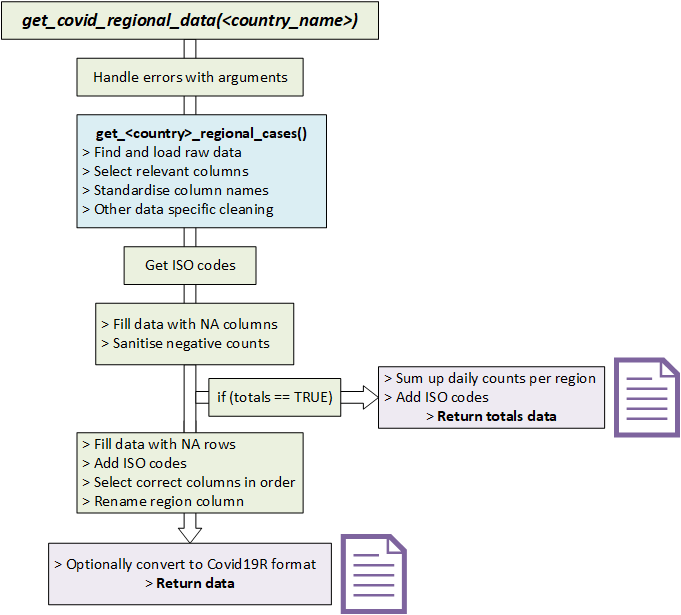
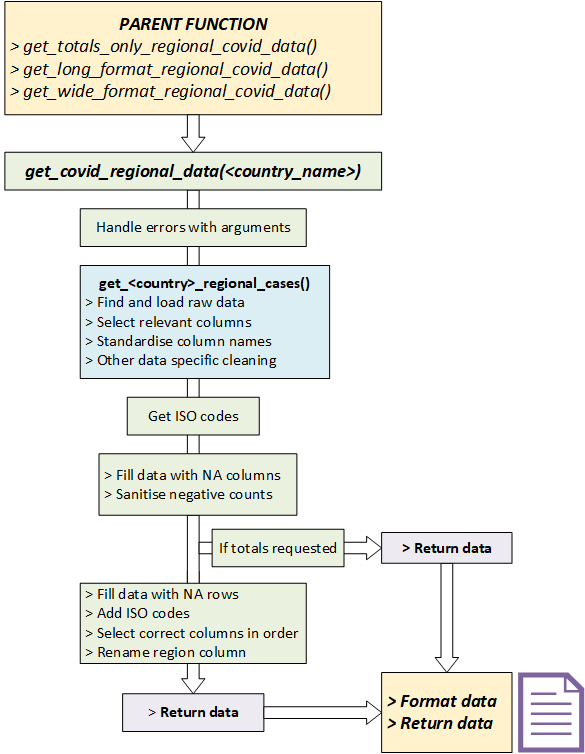
Split functionality into three separate main funcs

diff --git a/README.md b/README.md
@@ -20,14 +20,28 @@ remotes::install_github("epiforecasts/NCoVUtils", dependencies = TRUE)
 
 ## Usage
 
-
 ### Sub-national data
 
-There is one main function to extract sub-national level data by country. These are typically at the admin-1 level, the largest regions available. The data table also includes the ISO-3166-2 code for the region. 
+There are three main functions to extract sub-national level data by country. The underlying data for each function is the same - each function just formats the data differently. The regions used are currently at the admin-1 level, the largest regions available. The data table includes the ISO-3166-2 code for each region. Each function takes the country name (in English) as a string (see list below for available countries). The country string is not case-sensitive.
 
-To access the sub-national data, use
-```NCoVUtils::get_regional_covid_data(<country_name>)```
-where country name is a string with the English name of the country (see list below). This is not case-sensitive.
+The three ways to view the data (and the related functions) are:
+1. Long format - this is the standard used by the Covid19R package. To get data in this format use:
+```r
+NCoVUtils::get_long_format_regional_covid_data("Belgium")
+```
+
+This returns a dataset with the following structure
+
+**date**|**location**|**location\_type**|**location\_code**|**location\_code\_type**|**data\_type**|**value**
+:-----:|:-----:|:-----:|:-----:|:-----:|:-----:|:-----:
+2020-05-24|Wallonia|region|BE-WAL|iso-3166-2|tests\_total|NA
+2020-05-25|Brussels|region|BE-BRU|iso-3166-2|cases\_new|27
+2020-05-25|Brussels|region|BE-BRU|iso-3166-2|cases\_total|5828
+
+2. Wide format (aka time series format). To get data in this format use:
+```r
+NCoVUtils::get_wide_format_regional_covid_data("Belgium")
+```
 
 This returns a dataset with the following structure
 
@@ -37,11 +51,24 @@ This returns a dataset with the following structure
 2020-05-25|Brussels|BE-BRU|27|5828|2|1436|NA|NA|6|2533|NA|NA
 2020-05-25|Flanders|BE-VLG|184|32376|14|4673|NA|NA|29|9428|NA|NA
 
-The columns returned will _always_ be the same for standardisation reasons, though if the corresponding data was missing from the original source then the column will be all NA values. Note that some rows may have NA in `*_new` columns if the data was missing from the source also. 
+3. Totals only (cumulative data) up to the latest date available in the data (usually today's date or yesterday). To get data in this format use:
+```r
+NCoVUtils::get_totals_only_regional_covid_data("Belgium")
+```
 
-Dates will always be in YYYY-MM-DD format; the region is typically at admin-1 level (largest subregions) and the ISO codes are ISO-3166-2 codes. 
+This returns a dataset with the following structure
 
-Columns with `*_new` names are new counts for the day/region in question. Columns with `*_total` names are cumulative counts for that region up to and including the date. 
+**region**|**iso\_code**|**cases\_total**|**deaths\_total**|**recoveries\_total**|**hospitalisations\_total**|**tests\_total**
+:-----:|:-----:|:-----:|:-----:|:-----:|:-----:|:-----:
+Flanders|BE-VLG|32817|4731|0|9550|0
+Wallonia|BE-WAL|18489|3292|0|5187|0
+Brussels|BE-BRU|5914|1463|0|2560|0
+
+The data fields for counts returned will _always_ be the same for standardisation reasons, though if the corresponding data was missing from the original source then that data field will be all NA values (or 0 if accessing totals data). Note that some rows may have NA in `*_new` data fields if the data was missing from the source also. 
+
+Dates will always be in YYYY-MM-DD format and the ISO codes are ISO-3166-2 codes. 
+
+Data fields with `*_new` names are new counts for the day/region in question. Data fields with `*_total` names are cumulative counts for that region up to and including the date. 
 
 Currently we include functions for sub-national data in the following countries:
 
@@ -87,11 +114,6 @@ A further function for worldwide data extracts non-pharmaceutical interventions 
 And anonymised international patient linelist data can be imported and cleaned with:
 
 * ```NCoVUtils::get_linelist()```
-
-
-
-
-
 
 
 ## Development

diff --git a/SMG.md b/SMG.md
@@ -6,7 +6,7 @@ This guide is for those wishing to contribute code to the NCoVUtils package. For
 We are working to improve and expand the package: please see the [Issues](https://github.com/epiforecasts/NCoVUtils/issues) and feel free to comment. We are keen to standardise geocoding (issues [#81](https://github.com/epiforecasts/NCoVUtils/issues/81) and [#84](https://github.com/epiforecasts/NCoVUtils/issues/84)) and include data on priority countries ([#72](https://github.com/epiforecasts/NCoVUtils/issues/72)). As our capacity is limited, we would very much appreciate any help on these and welcome new pull requests.
 
 ## Set up
-Set your working directory to the home directory of this project (or use the provided Rstudio project). Install the analysis and all dependencies with:
+Set your working directory to the home directory of this project (or use the provided RStudio project). Install the analysis and all dependencies with:
 ```r
 remotes::install_github("epiforecasts/NCoVUtils", dependencies = TRUE)
 ```
@@ -47,23 +47,25 @@ Alternatively the package environment can be accessed via [binder](https://mybin
 
 ## Development
 ### Architecture
-NCoVUtils has one main data getter function which returns the same data (for each country) in different formats dependent on arguments that are passed in.
+NCoVUtils has three main data getter functions. They all return different formats of the same data. The majority of the functionality for all three functions is kept in the `get_regional_covid_data()` function. The three main functions are essentially wrappers around this with some formatting to reach the desired output. `get_regional_covid_data()` calls country-specific data getters (dependent on the country given by the user), and then mostly uses helpers from the `helper.R` file to clean and sanitise the data. 
 
-The getter follows the following steps (see picture below for a diagram).
+In general these are the steps it follows (see picture below for a diagram).
 
 1. Handling errors related to arguments.
 2. Getting data using the `get_<country>_regional_cases()` function for the relevant country.
 3. Getting the ISO codes for the country using `get_iso_codes(<country>)`
 4. Cleaning the data using some of the helper functions.
-5. _If_ the user requested totals only, summing up the data per region and returning the totals data.
+5. _If_ the user requested totals only, returning the data (summing up of the data is done in the `get_totals_only_regional_covid_data()` function).
 6. _If not_, further cleaning using the helper functions.
-7. Returning data in the requested (long or wide) format.
+7. Returning data in the wide format (`get_long_format_regional_covid_data()` then converts it to long format).
 
-![Architecture](architecture_main.png)
+<p align="center">
+  <img src="architecture_main.png" alt="architecture"/>
+</p>
 
 
 ### Common Tasks
-#### **Adding a new country to the `get_regional_covid_data()` function**
+#### **Adding a new country to the data getter functions**
 This is the most common task for developers. You will need a source of raw data before starting. Note that for the data to be suitable it must be:
 
 + reliable, valid and accurate 
@@ -90,7 +92,7 @@ If you need to write new functionality for the package, and the same functionali
 
 If writing a helper function, follow these steps:
 
-1. add your function to the `helpers.R` file. 
+1. Add your function to the `helpers.R` file. 
 
 2. Write unit tests (as above). At a minimum you should have a test which takes generic data (of a similar format as the data that the function is designed to use) and tests that the function handles it correctly. If there is a chance that user actions could cause the function to fail, then have tests to ensure that the function fails as expected in these instances.
 
